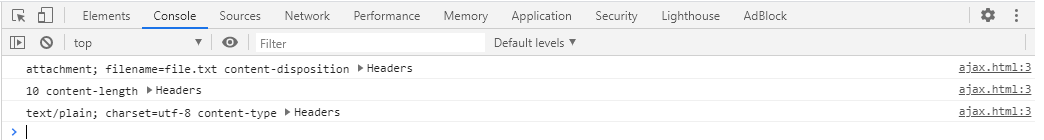
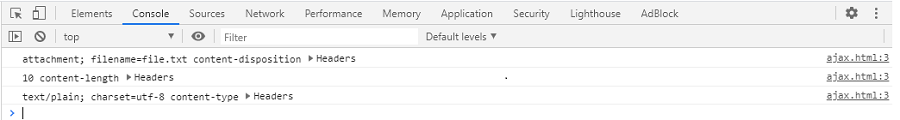
test: img

diff --git a/flask-expose-header.md b/flask-expose-header.md
@@ -55,8 +55,8 @@ if __name__ == "__main__":
 </script>
 ```
 
-<img src="/imgs/img1.png" width="1500px" height="500px"></img></br>
-
+<img src="/imgs/img1.png" width="900px" height="120px"></img></br>
+<!-- [See result as image file](/imgs/img1.png) -->
 
 ### Summary
 You can add `expose_headers` argument when creating CORS instance from flask to
